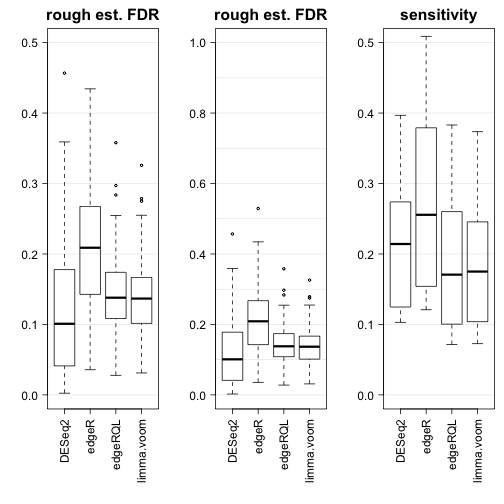
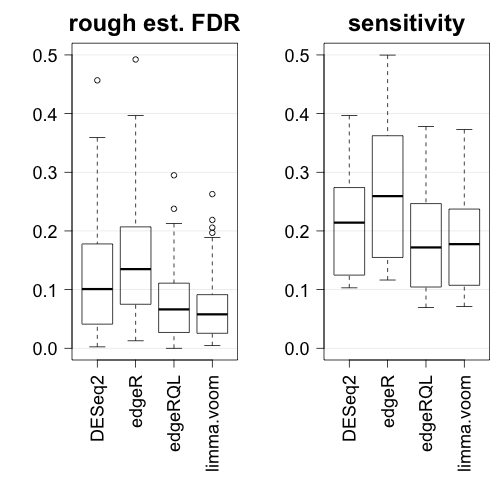
update plots to use better filter for edger limma

diff --git a/plots.md b/plots.md
@@ -20,17 +20,9 @@ image(sapply(1:30, function(i) as.integer(exper[randomSubsets[i,7:21],])),
       col=cols, main="out batch")
 ```
 
+![plot of chunk cond_batch](figure/cond_batch-1.png)
 
-```
-## 
-## Attaching package: 'rafalib'
-```
 
-```
-## The following object is masked from 'package:devtools':
-## 
-##     install_bioc
-```
 
 ### Number of calls
 
@@ -61,7 +53,7 @@ round(colMeans(held))
 
 ```
 ##     DESeq2      edgeR    edgeRQL limma.voom 
-##       3047       2293       2106       2025
+##       3047       2471       2281       2177
 ```
 
 ### FDR and sensitivity against heldout
@@ -69,10 +61,8 @@ round(colMeans(held))
 
 ```r
 lines <- function() abline(h=0:10/10,col=rgb(0,0,0,.1))
-bigpar(1,3,mar=c(10,5,3,1))
+bigpar(1,2,mar=c(10,5,3,1))
 boxplot(fdr, las=2, ylim=c(0,0.5), main="rough est. FDR")
-lines()
-boxplot(fdr, las=2, ylim=c(0,1), main="rough est. FDR")
 lines()
 boxplot(sens, las=2, ylim=c(0,0.5), main="sensitivity")
 lines()
@@ -89,7 +79,7 @@ Mean of the rough estimate of FDR (%) using the 7 vs 8 heldout set as ground tru
 
 ```
 ##     DESeq2      edgeR    edgeRQL limma.voom 
-##       13.5       22.0       15.2       14.7
+##       13.5       16.4        8.5        7.9
 ```
 
 
@@ -125,3 +115,63 @@ boxplot(getOverlap("edgeRQL","limma.voom",resHeldout,.1), ylim=ylims)
 ```
 
 ![plot of chunk over_heldout](figure/over_heldout-1.png)
+
+Which genes called by DESeq2 but not be edgeR in the heldout set? 
+Maybe we can characterize these. We'll just look at the first iteration,
+and look at the top genes called exclusively by DESeq2.
+
+
+```r
+deseq2.padj <- resHeldout[[1]][["DESeq2"]]
+edger.padj <- resHeldout[[1]][["edgeR"]]
+deseq2.exclusive <- deseq2.padj < 0.1 & edger.padj > 0.1
+table(deseq2.exclusive)
+```
+
+```
+## deseq2.exclusive
+## FALSE  TRUE 
+## 37389   602
+```
+
+```r
+names(deseq2.padj) <- rownames(bottomly)
+exc.padj <- deseq2.padj[deseq2.exclusive]
+top.padj <- head(sort(exc.padj),4)
+edger.padj[names(top.padj)] # filtered by edgeR
+```
+
+```
+## [1] NA NA NA NA
+```
+
+```r
+library(DESeq2)
+dds <- DESeqDataSet(bottomly, ~strain)
+dds <- estimateSizeFactors(dds)
+heldout.idx <- randomSubsets[1,7:21]
+```
+
+It appears these didn't pass the CPM filter we used for edgeR 
+of 10/L in 3 or more samples,
+where L is the number of millions of reads in the smallest library.
+Top row is the heldout set on which the samples were compared,
+bottom row is adding in all the samples.
+
+
+```r
+par(mfcol=c(2,4))
+for (i in 1:4) {
+  gene <- names(top.padj)[i]
+  cts <- counts(dds, normalized=TRUE)[gene,]
+  stripchart(cts[heldout.idx] ~ strain[heldout.idx,], 
+             method="jitter", vertical=TRUE, ylab="", 
+             main=substr(gene,14,18))
+  stripchart(cts ~ dds$strain, 
+             method="jitter", vertical=TRUE, ylab="", 
+             main=substr(gene,14,18))
+}
+```
+
+![plot of chunk deseq2.counts](figure/deseq2.counts-1.png)
+
